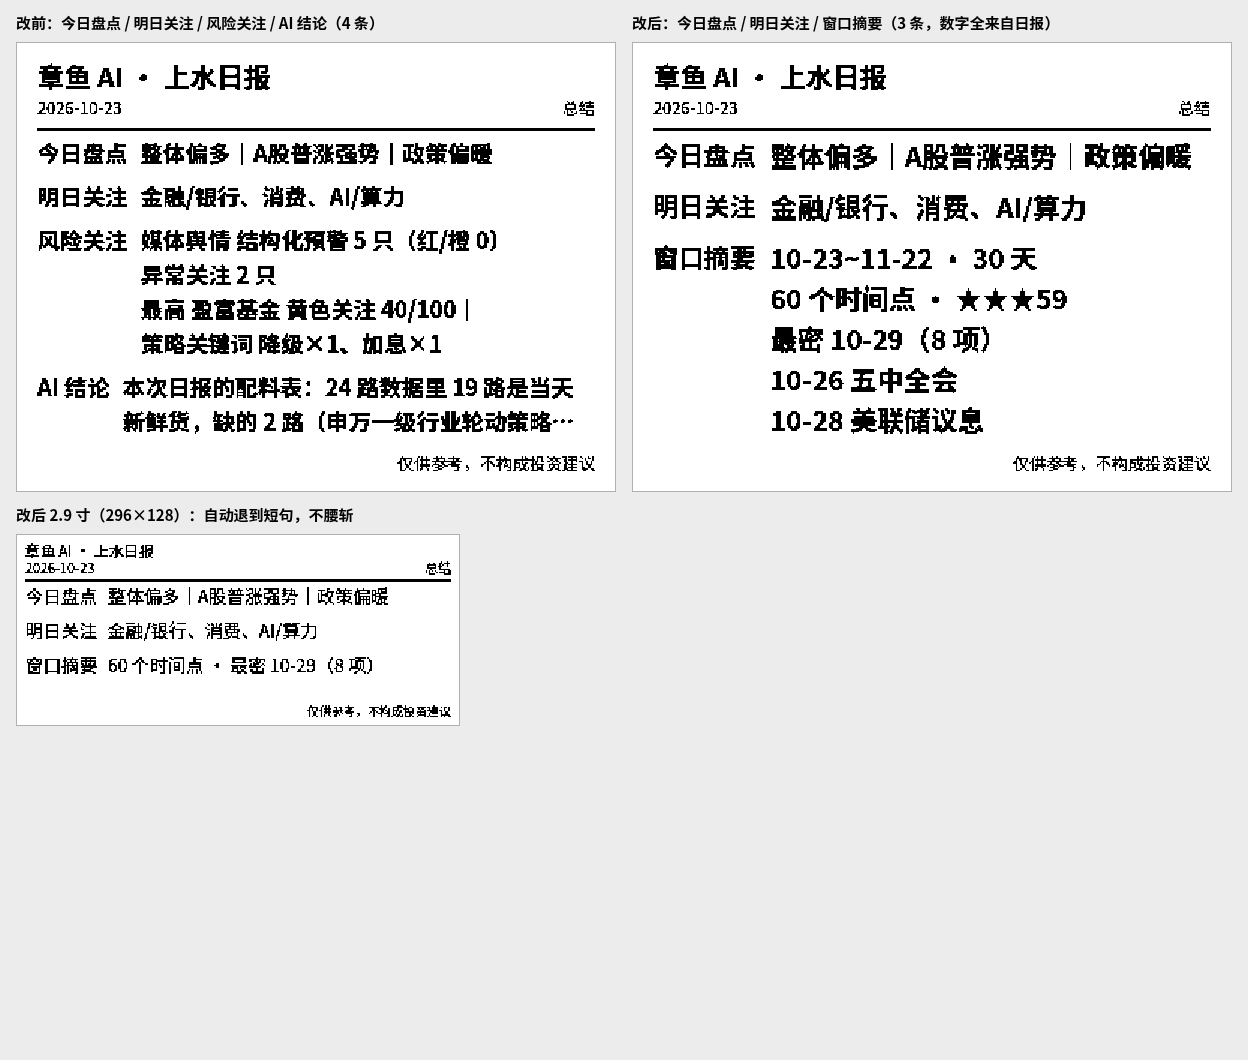
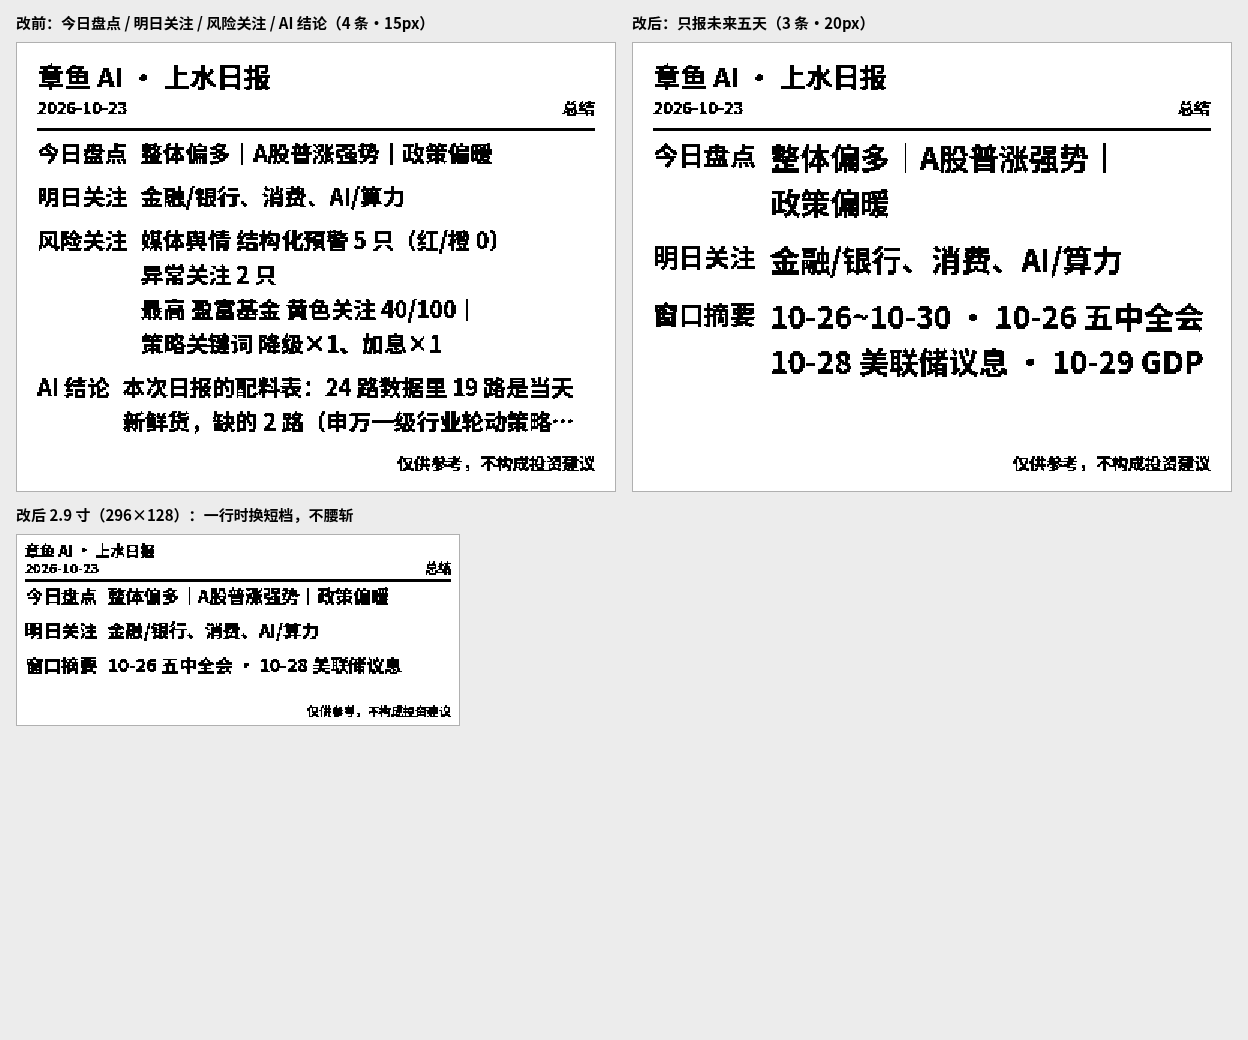
推送卡：窗口摘要只报未来五天
- 报告日之后 5 个工作日（跳过周末）为窗口，从窗口摘要表的会议 / 中美国关键读数里
  按日期筛，一天只留最重要的一条：10-26~10-30 · 10-26 五中全会 · 10-28 美联储议息 · 10-29 GDP
- 30 天口径（时间点总数 / 最密集日 / ★★★）留给「五天内无日程」的淡季兜底
- 日期一律取自日报原文，不推算法定节假日；五天都有事时按重要度留 3 天
- 名称压缩更彻底：GDP:不变价:… → GDP，ADP就业人数(万人) → ADP就业人数；
  12 字以内不再截断，去掉「国民经济运行情况…」这种半截名字
- 同样版面字号从 18px 升到 20px；小屏退到 10-26 五中全会 · 10-28 美联储议息 这类整句
- 测试 16 → 18 条，全部通过；README / 说明文档同步，对比图重画

diff --git a/js/ai-summary.js b/js/ai-summary.js
@@ -193,22 +193,32 @@ function extractWindowSummary(html) {
   return pairs.length ? pairs : null;
 }
 
-/** 「10-26 中国共产党第二十届中央委员会第五次全体会议」→「10-26 五中全会」 */
-function shortEventName(text) {
+/** 去掉日期前缀、把长名字压短：「中国共产党第二十届…第五次全体会议」→「五中全会」 */
+function compressEventName(text) {
   let s = String(text || '').trim();
   if (!s || s.indexOf('窗口内暂无') >= 0) return '';
   s = s
+    .replace(/^\d{1,2}-\d{1,2}\s*/, '')
     .replace(/中国共产党/g, '')
     // 「二十届中央委员会第五次全体会议」→「五中全会」：屏上只留最认得出的部分
     .replace(/第([一二三四五六七八九十\d]+)届中央委员会第([一二三四五六七八九十\d]+)次全体会议/g, '$2中全会')
     .replace(/议息会议/g, '议息')
     .replace(/全体会议/g, '全会')
+    // 经济读数常带一串口径：「GDP:不变价:环比折年率:季调」→「GDP」，
+    // 「ADP就业人数(万人)」→「ADP就业人数」
+    .replace(/[:：（(].*$/, '')
     .replace(/\s+/g, ' ')
     .trim();
+  // 截断时别把行尾留成半个括号 / 冒号
+  return s.length > 12 ? s.slice(0, 11).replace(/[\s([（:：,，、·]+$/, '') + '…' : s;
+}
 
-  const m = /^(\d{1,2}-\d{1,2})\s*(.+)$/.exec(s);
-  if (m) return m[1] + ' ' + (m[2].length > 9 ? m[2].slice(0, 8) + '…' : m[2]);
-  return s.length > 12 ? s.slice(0, 11) + '…' : s;
+/** 「10-26 中国共产党第二十届中央委员会第五次全体会议」→「10-26 五中全会」 */
+function shortEventName(text) {
+  const md = /^(\d{1,2}-\d{1,2})/.exec(String(text || '').trim());
+  const name = compressEventName(text);
+  if (!name) return '';
+  return md ? md[1] + ' ' + name : name;
 }
 
 /**
@@ -278,6 +288,96 @@ function windowSegments(pairs) {
   return seg;
 }
 
+/** 带日期的三类条目：会议 / 中国读数 / 美国读数 */
+const DATED_WINDOW_LABELS = [
+  '央行议息 / 重要会议', '央行议息/重要会议', '中国关键读数', '美国关键读数',
+];
+
+/** 把条目串拆开：「10-26 五中全会、10-28 美联储议息 等 9 项」→ [{md,name,score}] */
+function windowDatedItems(pairs) {
+  const out = [];
+  (pairs || []).forEach(p => {
+    if (DATED_WINDOW_LABELS.indexOf(p.label) < 0) return;
+    String(p.value || '')
+      .replace(/等\s*\d+\s*项\s*$/, '')
+      .split(/[、，]/)
+      .forEach(raw => {
+        const t = raw.trim();
+        const md = /^(\d{1,2}-\d{1,2})(?!\d)/.exec(t);
+        const name = compressEventName(t);
+        if (!md || !name) return;
+        out.push({ md: md[1], name, score: eventWeight(t) });
+      });
+  });
+  return out;
+}
+
+/** 「2026-10-23」之后 5 个工作日（跳过周末）；日期不合法返回 null */
+function nextFiveWeekdays(dateISO) {
+  const m = /^(\d{4})-(\d{2})-(\d{2})$/.exec(String(dateISO || ''));
+  if (!m) return null;
+  const p2 = v => String(v).padStart(2, '0');
+  const out = [];
+  for (let i = 1; i <= 30 && out.length < 5; i++) {
+    const d = new Date(Date.UTC(+m[1], +m[2] - 1, +m[3]) + i * 86400000);
+    const dow = d.getUTCDay();
+    if (dow === 0 || dow === 6) continue;
+    out.push(p2(d.getUTCMonth() + 1) + '-' + p2(d.getUTCDate()));
+  }
+  return out.length === 5 ? out : null;
+}
+
+/**
+ * 「只显示未来五天」的那一版窗口摘要。
+ *
+ * 日报的窗口摘要表按 30 天铺开，屏上只读得完最近这周。这里把会议 / 中美国关键读数
+ * 里带 MM-DD 的条目按「报告日之后的 5 个工作日」筛一遍，一天只留最重要的一条，
+ * 日期都来自日报原文，不自己推算节假日。
+ *
+ * 五天内一条都没有（淡季）时返回 []，由调用方退回 30 天口径。
+ */
+function composeFiveDayVariants(pairs, dateISO) {
+  const days = nextFiveWeekdays(dateISO);
+  if (!days) return [];
+  const keep = new Set(days);
+
+  const picked = [];
+  const at = {};
+  windowDatedItems(pairs).forEach(it => {
+    if (!keep.has(it.md)) return;
+    if (!(it.md in at)) { at[it.md] = picked.length; picked.push(it); return; }
+    if (it.score > picked[at[it.md]].score) picked[at[it.md]] = it;   // 一天只留一条
+  });
+  if (!picked.length) return [];
+
+  picked.sort((a, b) => days.indexOf(a.md) - days.indexOf(b.md));
+  let show = picked;
+  if (show.length > 3) {
+    // 五天都有事时屏幕上放不下，按重要度留 3 天，再排回日期顺序
+    const keepIdx = show.map((it, i) => ({ score: it.score, i }))
+      .sort((a, b) => (b.score - a.score) || (a.i - b.i))
+      .slice(0, 3)
+      .map(x => x.i)
+      .sort((a, b) => a - b);
+    show = keepIdx.map(i => show[i]);
+  }
+
+  const span = days[0] + '~' + days[days.length - 1];
+  const label = it => it.md + ' ' + it.name;
+  const out = [];
+  [
+    [span].concat(show.map(label)),
+    [span].concat(show.slice(0, 2).map(label)),
+    show.map(label),
+    show.slice(0, 2).map(label),
+    show.slice(0, 1).map(label),
+  ].forEach(list => {
+    const text = list.filter(Boolean).join(' · ');
+    if (text && out.indexOf(text) < 0) out.push(text);
+  });
+  return out;
+}
+
 /**
  * 按「信息量从多到少」列出窗口摘要的几档文案。
  * 小屏（296×128 / 250×122）正文只有一行位置，排版层会退到能放下的那一档，
@@ -325,11 +425,13 @@ function buildCard(summary) {
   if (f['明日关注']) lines.push({ label: '明日关注', text: clampText(f['明日关注'], 60) });
 
   // 窗口摘要取代原来的「风险关注」「AI 结论」：那两条又长又常被截，
-  // 屏上读不完；窗口摘要给的是未来 N 天的日程密度与重头戏。
+  // 屏上读不完；窗口摘要只报未来五天，一周的日程刚好读得完。
   if (summary.window && summary.window.length) {
-    // 三档候选：小屏（296×128 / 250×122）只有一行位置，
-    // 就让排版层自动退到「只留关键数字」那一档，而不是把句子腰斩
-    const variants = composeWindowVariants(summary.window);
+    // 只报「未来五天」：屏上读得完的也就这一周，30 天口径留给淡季兜底。
+    // 每档都是整句候选：小屏（296×128 / 250×122）只有一行位置，
+    // 就让排版层自动退到能放下的那一档，而不是把句子腰斩
+    const five = composeFiveDayVariants(summary.window, summary.date);
+    const variants = five.length ? five : composeWindowVariants(summary.window);
     if (variants.length) {
       lines.push({
         label: '窗口摘要',

diff --git a/tests/ai-summary.test.js b/tests/ai-summary.test.js
@@ -135,16 +135,47 @@ test('卡片用「窗口摘要」取代「风险关注 / AI 结论」', () => {
   assert.strictEqual(labels.join('/'), '今日盘点/明日关注/窗口摘要');
   assert.ok(!labels.includes('风险关注'));
   assert.ok(!labels.includes('AI 结论'));
-  // 摘要里的数字必须都能在日报原文里找到，不能是编的
-  const summary = call('extractSummary', README_HTML);
+  // 摘要里的日子必须都能在日报原文里找到，不能是编的
   const winText = card.lines[2].text;
-  const want = [
-    summary.window.find(p => p.label === '时间点合计').value.match(/^\d+/)[0],
-    '10-29',
-  ];
-  for (const token of want) {
-    assert.ok(winText.includes(token), '窗口摘要缺数字：' + token + ' | ' + winText);
+  assert.ok(/10-2[6-9]|10-30/.test(winText), '应含未来一周的日期：' + winText);
+  for (const md of winText.match(/\d{2}-\d{2}/g) || []) {
+    assert.ok(README_HTML.includes(md), '窗口摘要里的日期在原文中不存在：' + md);
   }
+});
+
+test('窗口摘要只覆盖报告日之后的 5 个工作日', () => {
+  const summary = call('extractSummary', README_HTML);
+  const card = call('buildCard', summary);
+  const winText = card.lines[2].text;
+
+  const days = call('nextFiveWeekdays', summary.date);
+  assert.deepStrictEqual(Array.from(days), ['10-26', '10-27', '10-28', '10-29', '10-30']);
+
+  // 跨月 / 跨年也不能漏：区间两头就是这五天的首尾
+  assert.ok(winText.startsWith(days[0] + '~' + days[days.length - 1]), '区间不对：' + winText);
+  for (const md of winText.match(/\d{2}-\d{2}/g) || []) {
+    assert.ok(days.includes(md), '超出一周范围：' + md + ' | ' + winText);
+  }
+  // 30 天口径的内容不该再出现在卡上
+  assert.ok(!/个时间点|最密|★★★/.test(winText), '窗口摘要混进了 30 天口径：' + winText);
+
+  // 每天只留一条，且都在原文里
+  const picked = call('windowDatedItems', summary.window).filter(it => days.includes(it.md));
+  assert.ok(picked.length >= 3, '十条内应挑出条目：' + picked.length);
+});
+
+test('五天内没有日程时退回 30 天口径', () => {
+  const only30 = [{ label: '时间窗口', value: '2026-10-23 ~ 2026-11-22 · 未来 30 天' }];
+  assert.strictEqual(call('composeFiveDayVariants', only30, '2026-10-23').length, 0);
+
+  // 日期都在五天之内的条目一律不取（10-31 已经开始下一周）
+  const far = [{ label: '央行议息 / 重要会议', value: '10-31 美联储议息会议、11-07 央行议息会议' }];
+  assert.strictEqual(call('composeFiveDayVariants', far, '2026-10-23').length, 0);
+  const near = [{ label: '央行议息 / 重要会议', value: '10-28 美联储议息会议' }];
+  assert.deepStrictEqual(
+    Array.from(call('composeFiveDayVariants', near, '2026-10-23')),
+    ['10-26~10-30 · 10-28 美联储议息', '10-28 美联储议息'],
+  );
 });
 
 test('窗口摘要：解析时间节点栏目的表，压成一句话', () => {

diff --git a/字体与字号-调整说明.md b/字体与字号-调整说明.md
@@ -68,17 +68,24 @@ node --test tests/ai-summary.test.js
 | 明日关注 | `总结` 栏目 |
 | **窗口摘要** | `【探照安康鱼】时间节点量化分析` 的「窗口摘要」表 |
 
-窗口摘要的一句话由这些段拼成，**每个数字都来自日报原文**：
+**只显示未来五天**：日报的窗口摘要表铺了 30 天，屏上一周就读不完了。所以卡片只取
+「报告日之后的 5 个工作日」里的事项，每天只留最重要的一条，**日期与事件都来自日报原文**：
 
 ```
-10-23~11-22 · 30 天 · 60 个时间点 · ★★★59 · 最密 10-29（8 项） · 10-26 五中全会 · 10-28 美联储议息
+10-26~10-30 · 10-26 五中全会 · 10-28 美联储议息 · 10-29 GDP
 ```
+
+（2026-10-24 之前这里报的是 30 天口径：`10-23~11-22 · 30 天 · 60 个时间点 · ★★★59 · 最密 10-29（8 项）…`，
+一行读不完，字号也被压到 18px。五天口径下同样版面能上到 20px。）
 
 | 规则 | 说明 |
 |---|---|
-| 会议挑选 | 原文按日期排，「前两个」常是发布会这类小事件；按关键词（美联储 / 中全会 / 央行议息）打分挑重头戏，再按日期排回去 |
+| 五日窗口 | 报告日之后 5 个工作日（跳过周末）。区间按星期算，不猜法定节假日；日期一律取自日报原文，原文没有的日子不会出现在卡上 |
+| 每天一条 | 同一天有多条时按关键词打分（美联储 / 中全会 / 央行议息 优先，发布会降权），只留最重的一条 |
+| 星期整理 | 五天都有事时按重要度留 3 天，再按日期排回去——屏幕上放得下的就这么多 |
 | 名称压缩 | 「中国共产党第二十届中央委员会第五次全体会议」→「五中全会」，「议息会议」→「议息」 |
-| 小屏降级 | 296×128 / 250×122 正文只有一行位置 → 退到 `60 个时间点 · 最密 10-29（8 项）` 整句，而不是把长句腰斩 |
+| 小屏降级 | 296×128 / 250×122 正文只有一行位置 → 退到 `10-26 五中全会 · 10-28 美联储议息` 这样的整句，而不是把长句腰斩 |
+| 淡季兜底 | 五天内一条日程都没有时，退回原来的 30 天口径（时间点总数 / 最密集日 / 重头戏） |
 | 老日报兼容 | 没有「窗口摘要」表的旧日报，自动退回 `风险关注 / AI 结论` |
 | 折行 | 先按「 · 」整段折行，段内才逐字断；数字与量词不分家（「60 个时间点」），专名不拆开 |
 

diff --git a/README.md b/README.md
@@ -22,7 +22,7 @@
 |---|---|
 | 内容来源 | 同源抓取 `001/output/latest.html`：`总结` 栏目的 `今日盘点 / 明日关注` + `【探照安康鱼】时间节点量化分析` 的 `窗口摘要` |
 | 屏上三行 | **今日盘点 / 明日关注 / 窗口摘要**（2026-10-24 起取代原来的「风险关注 / AI 结论」：那两条又长又常被截，屏上读不完） |
-| 窗口摘要 | 时间窗口 · 时间点总数 · ★★★ 数量 · 最密集日 · 重点会议（按关键词挑重头戏，不是原文前两个）。每个数字都来自日报原文，只压缩不加料；小屏自动退到更短的一档整句，不腰斩 |
+| 窗口摘要 | **只报未来五天**（报告日之后 5 个工作日）：`10-26~10-30 · 10-26 五中全会 · 10-28 美联储议息 · 10-29 GDP`。从日报窗口摘要表的会议 / 中美国关键读数里按日期筛，一天只留最重要的一条；日期、事件全部来自原文，只压缩不加料。小屏自动退到更短的一档整句，不腰斩 |
 | 老日报兼容 | 没有「窗口摘要」表的旧日报，自动退回 `风险关注 / AI 结论` 两条 |
 | 预览 | 「重新抓取并预览」重新读日报并重绘，不碰蓝牙；切换尺寸/字体/字号会直接用缓存重绘；「预览」下拉可 1×/2×/3× 放大，方便看笔画 |
 | 屏幕尺寸 | 4.2 寸 400×300（默认）、2.9 寸 296×128、2.13 寸 250×122 |
@@ -34,7 +34,7 @@
 ![窗口摘要 前后对比](窗口摘要-前后对比.png)
 
 改动前后（400×300、标准字号）：旧版 4 条要吃满整个版面、字号只能压到 15px，`风险关注` 和 `AI 结论`
-还得用省略号收尾；新版 3 条回到 18px，窗口摘要的 5 行全是完整信息。
+还得用省略号收尾；新版 3 条、字号 20px，窗口摘要只留未来五天，两行就读完了。
 
 ### 字体看不清时怎么调
 
